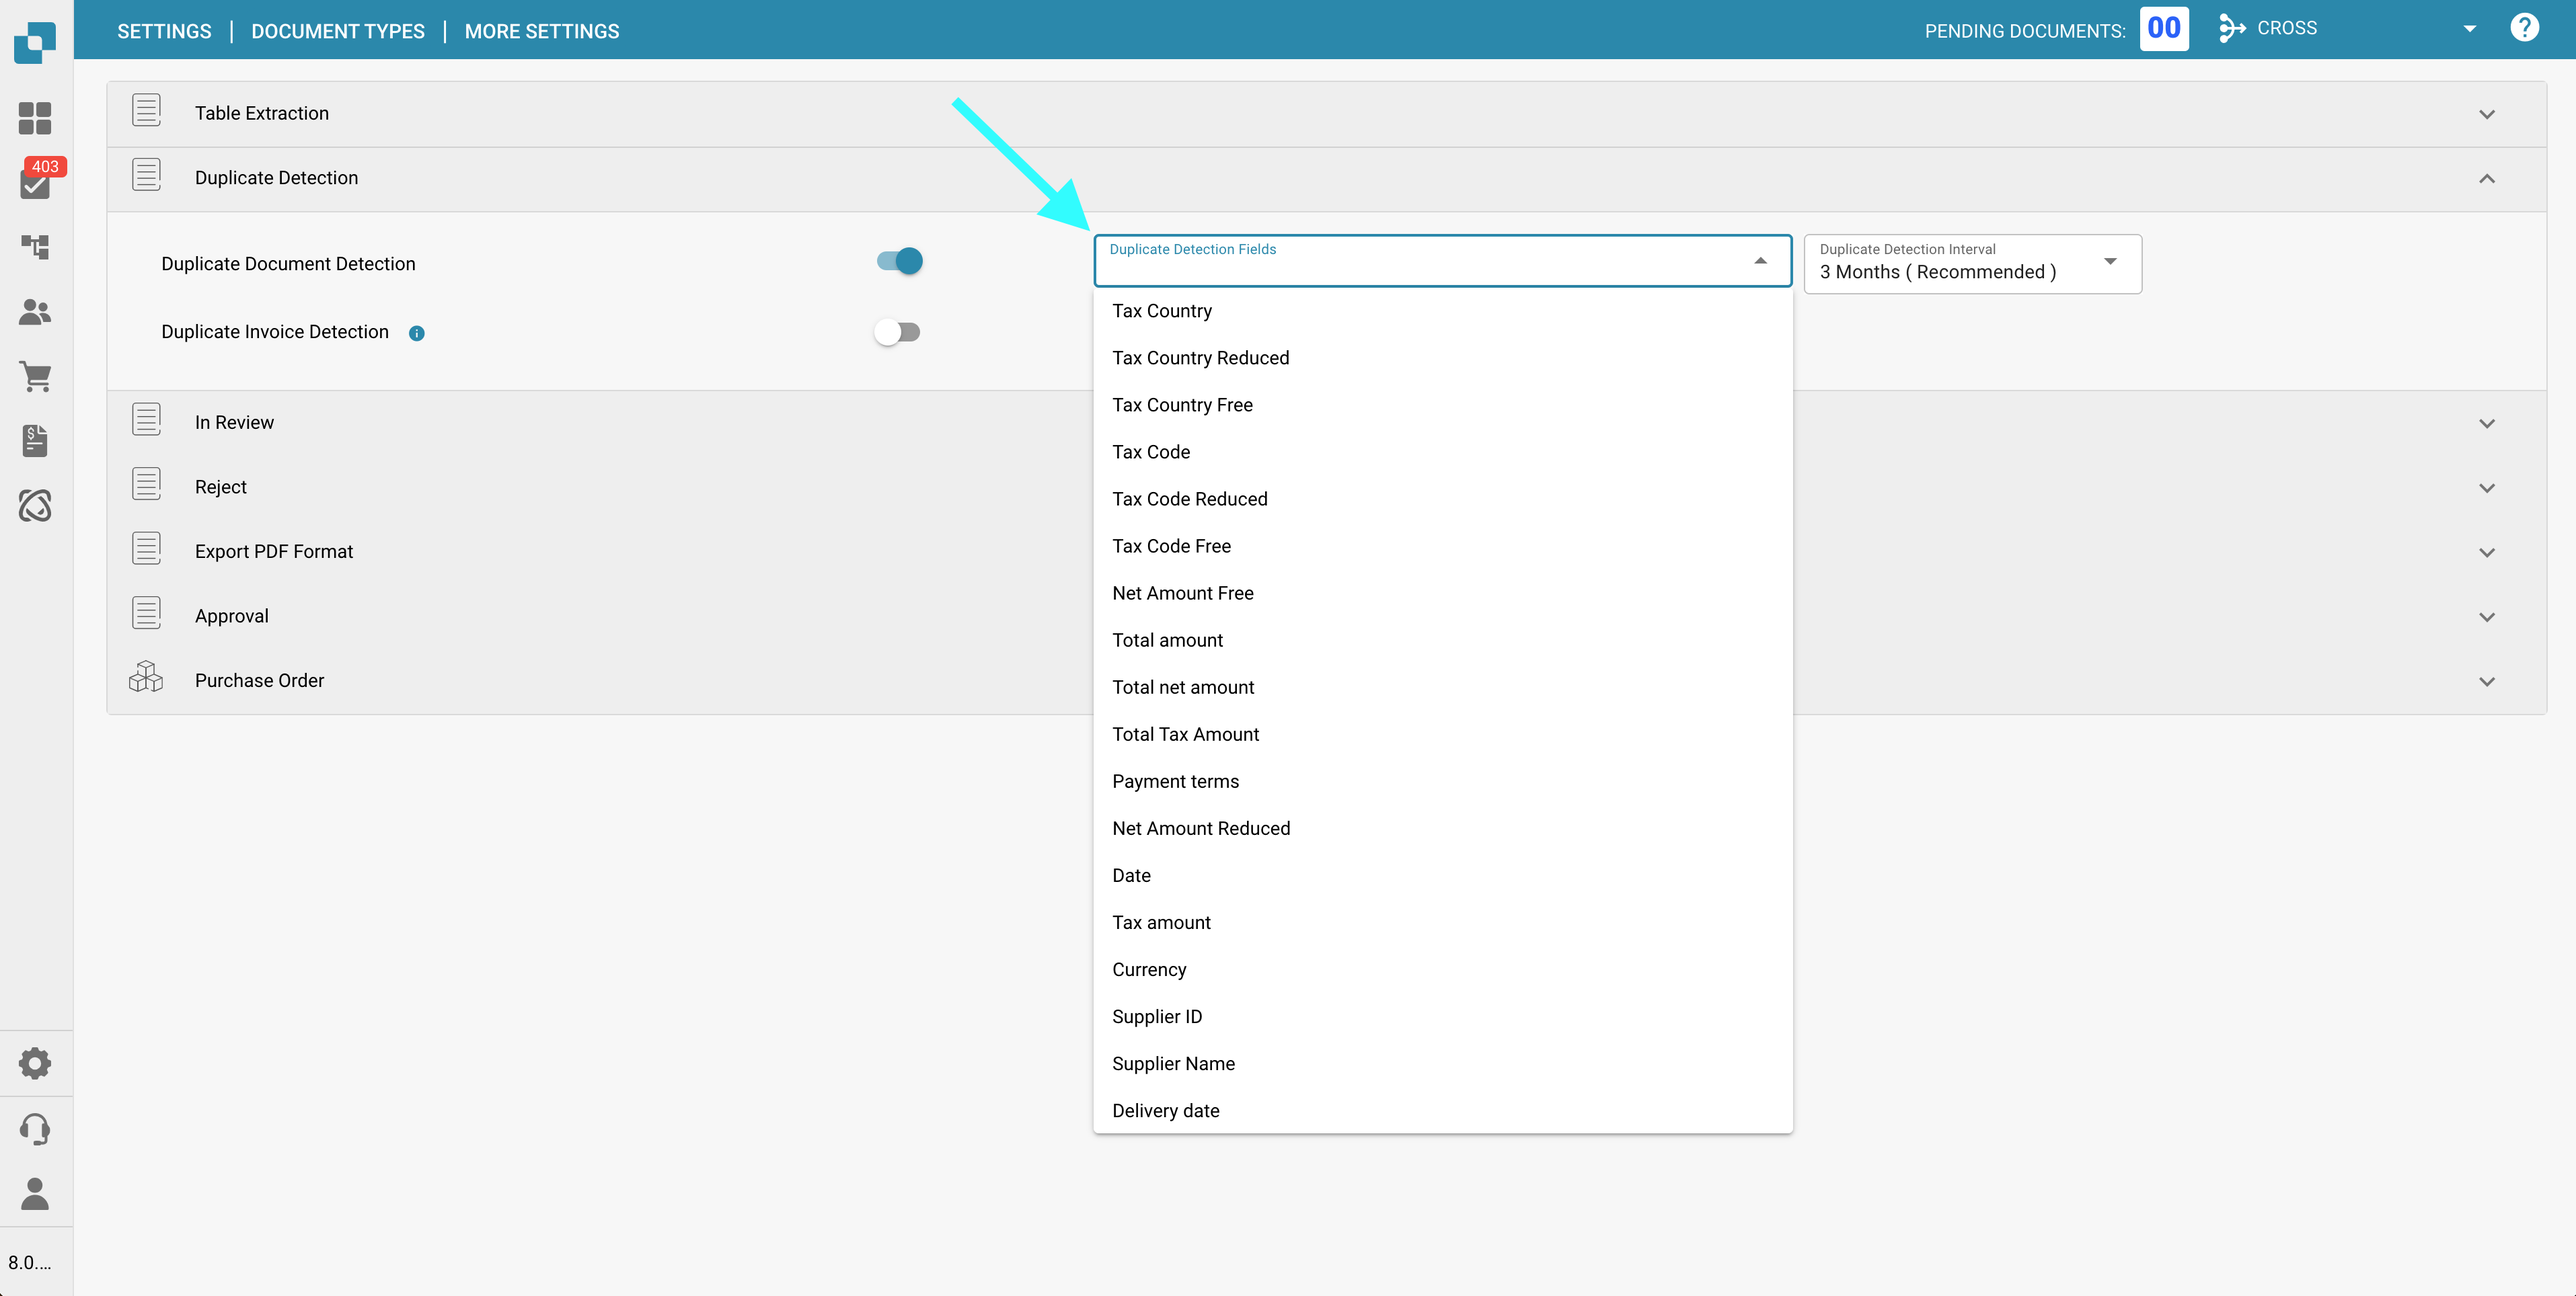
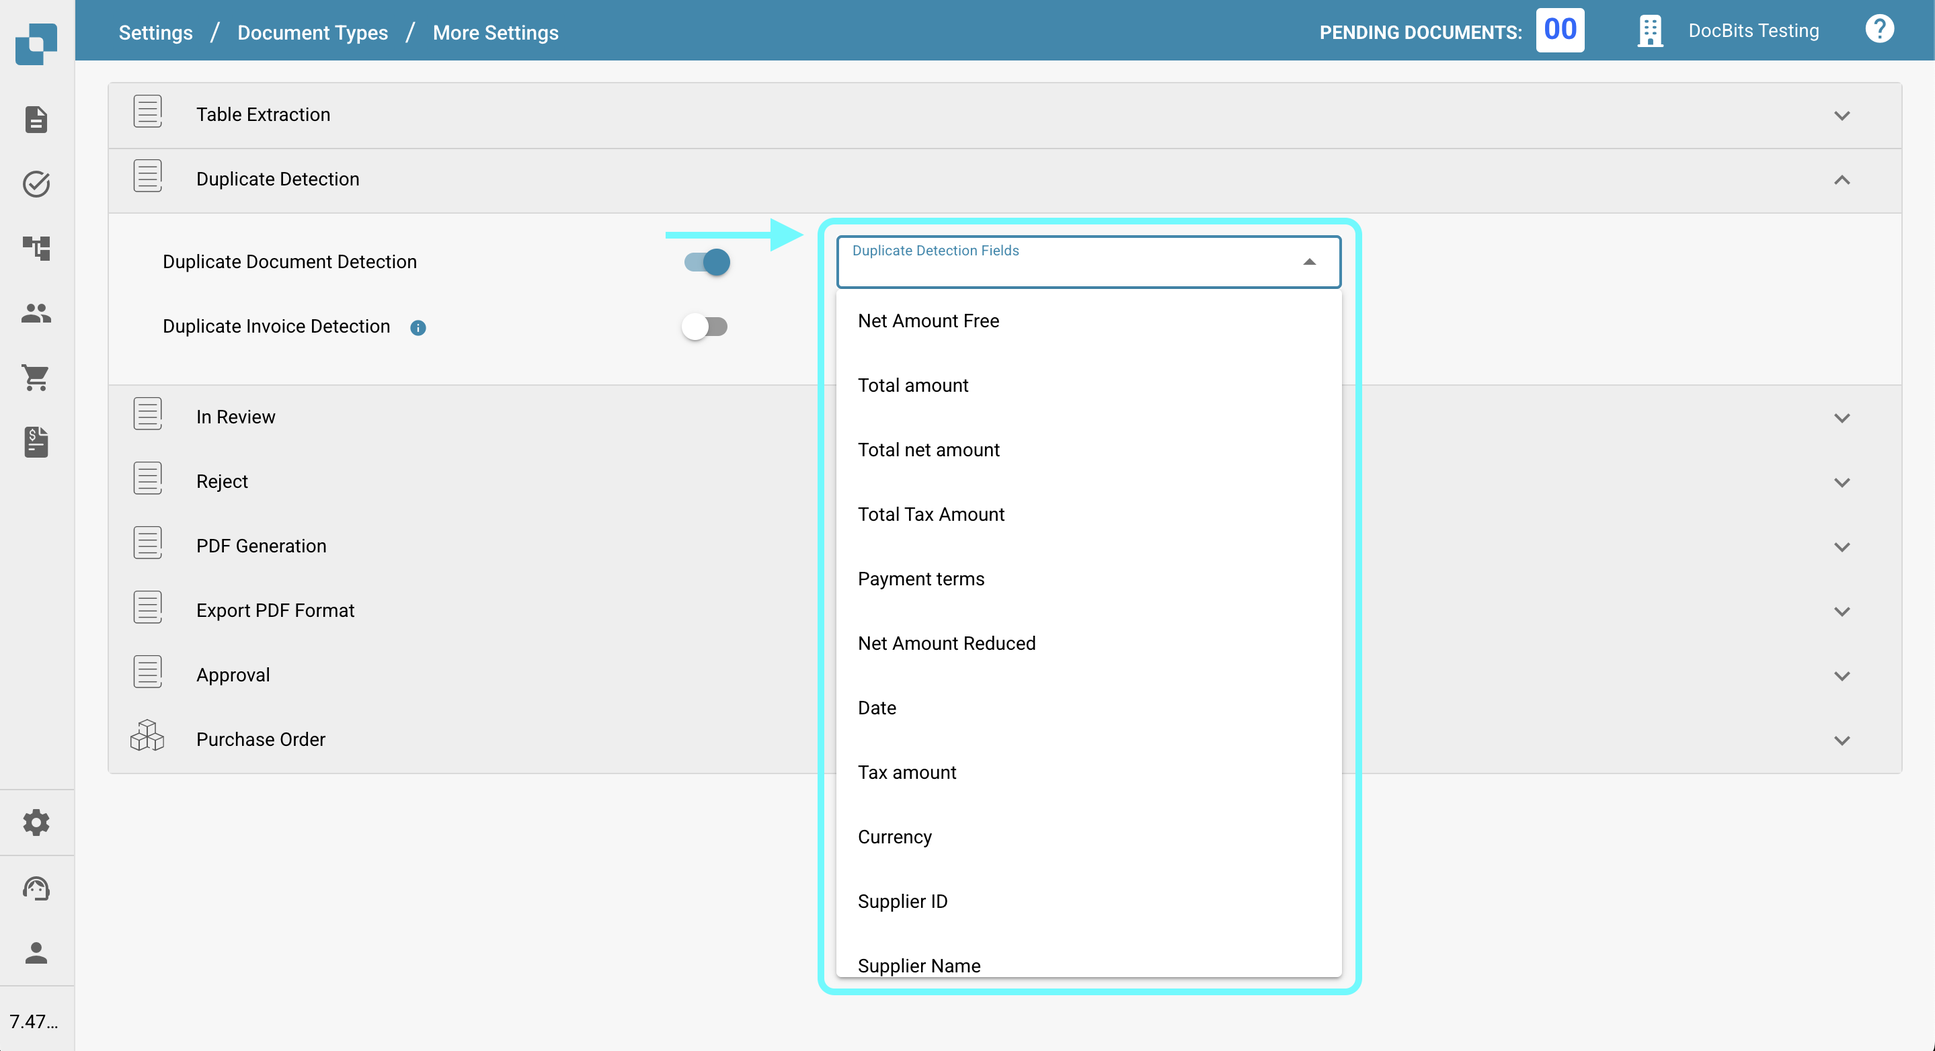
GITBOOK-938: No subject

diff --git a/readme/administration-and-setup/settings/global-settings/document-types/more-settings/duplicate-document-handling.md b/readme/administration-and-setup/settings/global-settings/document-types/more-settings/duplicate-document-handling.md
@@ -2,7 +2,7 @@
 
 ## Enabling Duplicate Detection
 
-To enable duplicate document handling, follow these steps:
+To enable duplicate document detection in DocBits, follow these steps:
 
 1.  Navigate to **Settings** → **Global Settings** → **Document Types**.
 
@@ -14,7 +14,7 @@ To enable duplicate document handling, follow these steps:
 
     <figure><img src="../../../../../.gitbook/assets/DuplicateDocument_3 (1).png" alt=""><figcaption></figcaption></figure>
 
-You have two options for detecting duplicate documents:
+DocBits provides two options for identifying duplicate documents:
 
 1. **Duplicate Document Detection**: \
    This feature checks for duplicate documents uploaded to DocBits based on the selected criteria. If any document matches the selected criteria across other documents, it will be flagged as a duplicate.
@@ -23,18 +23,29 @@ You have two options for detecting duplicate documents:
 
     <mark style="color:red;">**Note**</mark>: Using the **Duplicate Invoice Detection** feature will result in an additional credit charge.
 
-Once the setting is activated, you can select the specific criteria for duplicate detection.
+## Filter which documents should be detected as duplicate
 
-<figure><img src="../../../../../.gitbook/assets/DuplicateDocument_4.png" alt=""><figcaption></figcaption></figure>
+Once Duplicate Detection is enabled, you can:
+
+*   Specify Matching Criteria: Choose which attributes should be used to identify duplicates (e.g., supplier id, date, invoice number, etc.).
+
+    <figure><img src="../../../../../.gitbook/assets/DuplicateDocument_4.png" alt=""><figcaption></figcaption></figure>
+*   Set the Detection Interval: Define the time range during which duplicates are detected. Options include:
+
+    * 1 Month
+    * 3 Months
+    * 6 Months
+    * 1 Year
+
+    <figure><img src="../../../../../.gitbook/assets/DuplicateDocument_6.png" alt=""><figcaption></figcaption></figure>
 
 ## Viewing Duplicate Documents on the Dashboard
 
-After enabling Duplicate Detection, the dashboard will display an icon for any documents identified as duplicates based on the selected criteria. Clicking this icon will open the duplicate records in a split-screen view for easy comparison.
+Once Duplicate Detection is enabled, any documents identified as duplicates will display the **Show Duplicates** icon on the dashboard.
 
-<figure><img src="../../../../../.gitbook/assets/DuplicateDomuent_6.png" alt="" width="329"><figcaption></figcaption></figure>
+*   Click the **Show Duplicates** icon to open duplicate records in a side-by-side split-screen view for easy comparison.
 
-<figure><img src="../../../../../.gitbook/assets/duplicate_invoice handling2.png" alt=""><figcaption></figcaption></figure>
+    <figure><img src="../../../../../.gitbook/assets/duplicate_invoice handling2.png" alt=""><figcaption></figcaption></figure>
+*   When viewing a flagged document, a warning bar will appear at the top, indicating that the document is a duplicate.
 
-When viewing a document, a warning bar will appear to indicate that the document is a duplicate
-
-<figure><img src="../../../../../.gitbook/assets/DuplicateDocument_5.png" alt=""><figcaption></figcaption></figure>
+    <figure><img src="../../../../../.gitbook/assets/DuplicateDocument_5.png" alt=""><figcaption></figcaption></figure>
